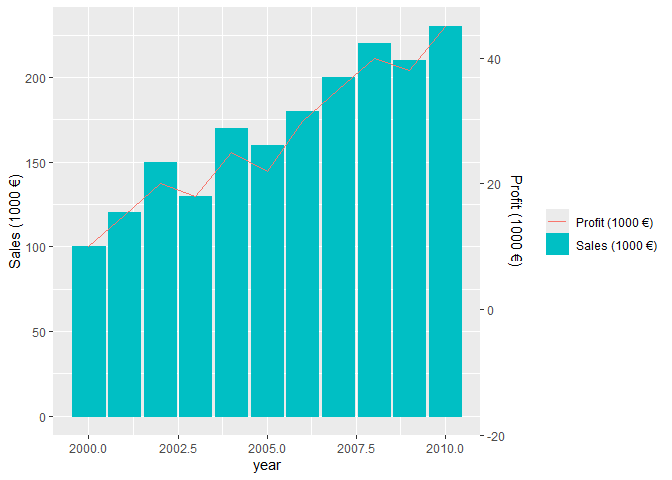
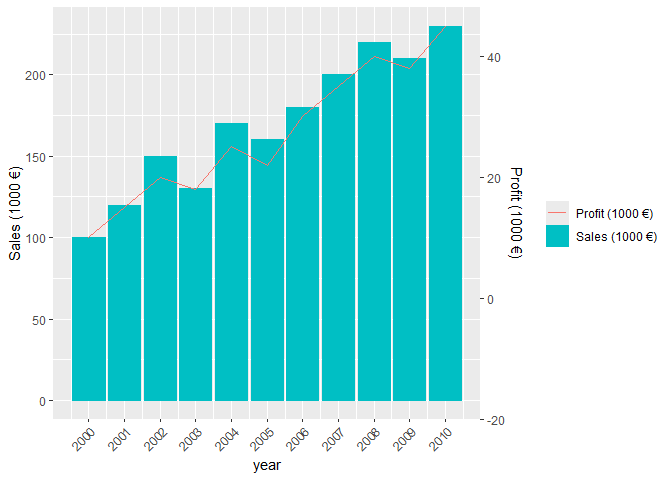
update README

diff --git a/README.md b/README.md
@@ -108,7 +108,9 @@ data.frame(
     y2_geom = ggplot2::geom_line, 
     y1_label = "Sales (1000 €)", 
     y2_label = "Profit (1000 €)"
-  )
+  ) +
+  ggplot2::scale_x_continuous(breaks = 2000:2010) +
+  ggplot2::theme(axis.text.x = ggplot2::element_text(angle = 45, hjust = 1))
 ```
 
 <img src="man/figures/README-bar-plot-1.png" width="100%" />
